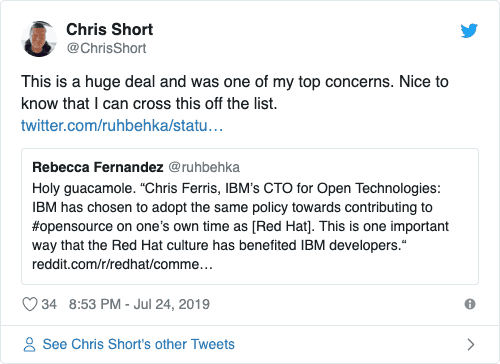
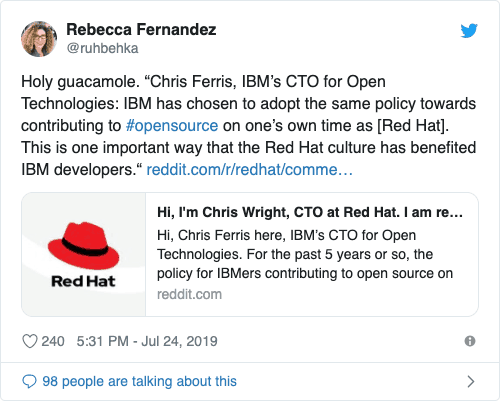
138 Rough Draft

diff --git a/content/post/138/index.md b/content/post/138/index.md
@@ -6,48 +6,104 @@ date = 2019-07-28T07:00:00Z
 description = ""
 draft = false
 slug = "138"
-tags = ["DevOps", "Kubernetes", "cloud", "open source", "GitHub", "cloud native", "weekly newsletter", "security", "DevOps news", "Kubernetes news"]
+tags = ["DevOps", "Kubernetes", "cloud", "open source", "GitHub", "cloud native", "weekly newsletter", "security", "DevOps news", "Kubernetes news", "JEDI"]
 title = "138"
 
 +++
 
-INTRO
+Let's talk about JEDI for a second. Not the lightsaber weilding kind, the US Department of Defense's [Joint Enterprise Defense Infrastructure (JEDI)](https://devopsish.com/tags/jedi/) kind. JEDI is a $10 billion, single-award, indefinite delivery, indefinite quantity contract for the largest Department in the US government's cloud business. The competition had been whittled down to AWS and Azure but, Oracle has been pitching a Larry Ellison sized fit over it. Actually, Oracle has protested JEDI's selection process almost since its inception. The process started in late 2017 and has been filled with all sorts of twists and turns.
+
+[Last week](https://devopsish.com/137), I shared a story with part of the headline stating, "Judge shoots down Oracle protest." Like any good government procurement process though, this is where the lawyers stepped back and the lobbyist stepped forward. I also linked to a story last week discussing the US President's concern over JEDI. The sitting US President absolutely hates Jeff Bezos, owner of the Washington Post and CEO of Amazon. AWS is the clear front runner as the #1 cloud provider *in the world*. The most popular cloud provider in the US by a long shot, [AWS GovCloud](https://aws.amazon.com/govcloud-us/) has been up and running since 2011. The US Intelligence Community uses [AWS Secret Region](https://aws.amazon.com/blogs/publicsector/announcing-the-new-aws-secret-region/) extensively.
+
+If you thought last week's warning shot was the end, you'd be wrong. [Senator Marco Rubio has sent letters to the President](https://www.fedscoop.com/jedi-letter-rubio-republicans/) urging further scrutinization of JEDI. What's interesting is that during his failed presidential run in 2016, [Senator Rubio took $4 million from Oracle co-founder Larry Ellison](https://www.usatoday.com/story/tech/2016/07/17/tech-turns-its-back-trump-except-few/86508920/). It's also worth noting that [Oracle's CEO was on Trump's Transition Team](https://fortune.com/2016/12/15/trump-oracle-safra-catz/). Make no mistake, Oracle is playing *really petty* politics here. I get it, Oracle's future depends a lot on this. If the US government continues its move to AWS, there's little hope Oracle's fledgling cloud business will gain much traction. Oracle seemingly can't compete on features and has decided to compete in other ways. [Amazon is rightfully getting their own lobbyists with Trump ties on board](https://www.geekwire.com/2019/amazon-hires-lobbyist-trump-ties-amid-contentious-pentagon-cloud-contest/). But, I fear it might be too little, too late. President Trump strikes me as someone who values personal connections far more than logic and reason.
+
+The [Joint Staff has already said, "Our warfighters need this capability now."](https://www.fedscoop.com/joint-chiefs-cio-jedi-delay-letter/) I agree with the Joint Staff here. Do you think China, Russia, or any US adversary for that matter, has this problem? Probably not. China is technologically and politically adept enough to have all this sorted out. Russia plays in a very different theater of operations than the US has traditionally. The elasticity and security capabilities of a fully integrated cloud might pay huge dividends against Russian tactics. But, delaying this acquisition from going forward has compounding negative effects as aging systems are yet again expected to survive somehow while the dithering in Washington drags on.
+
+If you are in the US (most of you are), do me a favor this week, please. Reach out to your [Representatives](https://www.house.gov/representatives) and [Senators](https://www.senate.gov/general/contact_information/senators_cfm.cfm). Tell them the politics over JEDI needs to stop and we need to give our servicemembers the tools they need to do their job right. Demand that the JEDI selection move forward with AWS and Azure as the final two bidders. Don't force the Department of Defense to use potentially inferior tooling. Who wants Oracle getting $10 billion more in US taxpayer money anyway?
 
 [**Get $100 to Demo Blue Matador The Alert Automation Service**](https://www.bluematador.com/demo-for-100-devopsish)  
 Blue Matador is alert automation for AWS and Kubernetes environments. Our proactive alerts take the time and toil out of monitoring. See production issues before anyone else. We're so confident you'll love it that we're offering $100 to demo it with our team. *SPONSORED*
 
+## DevOps'ish Last Week's Top Five
+
+1. [The cloud skills shortage and the unemployed army of the certified](https://itnext.io/the-cloud-skills-shortage-and-the-unemployed-army-of-the-certified-bd405784cef1)
+1. [Have you ever wondered what the hiring process was 20 years ago compared to today? Probably not, but I'll tell you anyway](https://www.reddit.com/r/cscareerquestions/comments/brjexy/have_you_ever_wondered_what_the_hiring_process/)
+1. [Kubernetes Deployments: The Ultimate Guide by Jérôme Petazzoni](https://semaphoreci.com/blog/kubernetes-deployment)
+1. [The Kubernetes Hierarchy of Needs](https://thenewstack.io/the-kubernetes-hierarchy-of-needs/)
+1. [6 Causes of Burnout, and How to Avoid Them](https://hbr.org/2019/07/6-causes-of-burnout-and-how-to-avoid-them)
+
+## People
+
 [**X-Team Is Hiring a Team of DevOps Engineers (Remote)**](https://x-team.com/remote-devops-engineer-jobs/?utm_source=devopsish&utm_medium=email-ad)  
 We are looking for passionate DevOps engineers to work with the world's leading brands, from anywhere. We love to work with Kubernetes, Docker, Serverless, and AWS tools. Travel the world while being part of the most energizing community of developers. [Join X-Team](https://x-team.com/remote-devops-engineer-jobs/?utm_source=devopsish&utm_medium=email-ad) *SPONSORED*
+
+[joshsimmons/inclusion-rider](https://github.com/joshsimmons/inclusion-rider) — An as-yet UNTESTED sample speaker's rider to share with event organizers.
+
+[9 people for sysadmins to follow on Twitter](https://opensource.com/article/19/7/twitter-sysadmins) — Follow these accounts to gain a wealth of knowledge about being a better sysadmin.
+
+[Russia's Secret Intelligence Agency Hacked: 'Largest Data Breach In Its History'](https://www.forbes.com/sites/zakdoffman/2019/07/20/russian-intelligence-has-been-hacked-with-social-media-and-tor-projects-exposed/#e8c8c06b1150) — *Gets popcorn*
+
+[Marcus Hutchins, malware researcher and ‘WannaCry hero,' sentenced to supervised release](https://techcrunch.com/2019/07/26/marcus-hutchins-sentenced-kronos/) — Time served, supervised release, and Marcus will likely never be able to re-enter the US. But, look what Judge J. P. Stadtmueller said, "It's going to take the people like [Hutchins] with your skills to come up with solutions because that's the only way we're going to eliminate this entire subject of the woefully inadequate security protocols." The judge is right.
 
 [**The Business Value of Developer Relations**](https://www.persea-consulting.com/book?utm_source=devopsish&utm_medium=newsletter&utm_campaign=138)  
 Discover the true value of Developer Relations as you learn to build and maintain positive relationships with your developer community. Use the principles laid out in this book to walk through your company goals and discover how you can formulate a plan tailored to your specific needs. *SPONSORED*
 
-## DevOps'ish Last Week's Top Five
-
-1. 
-1. 
-1. 
-1. 
-1. 
-
-## People
-
-PEOPLE
-
-[DevOps'ish Telegram](https://t.me/devopsish) — Join the 300+ DevOps, Kubernetes, SRE, and other technology professionals discussing real-world problems, breaking technology events and outages, and the occasional Spotify playlist.
-
 ## Process
 
-PROCESS
+[Will complexity kill Kubernetes?](https://www.infoworld.com/article/3409980/will-complexity-kill-kubernetes.html) — Short answer: Complexity kills everything so, yes. However, the author disagrees (for good reason), "Probably not. While Hadoop got more complicated with age, Kubernetes keeps getting easier. While Kubernetes will likely never be 'easy,' per se, its complexity differs from that of Hadoop in critical ways, paving the way for Kubernetes to remain an industry standard for years to come." I don't think Hadoop is a good analog to Kubernetes (let's face it, no one wants Kubernetes to become OpenStack). But, it does speak to a community that try's to grease the skids in versus raising the bar higher and higher.
+
+[Other people's messes by Jessica Kerr](https://blog.jessitron.com/2019/07/21/other-peoples-messes/) — Like a lot of things in life, When it comes to code, context matters. It's a lot less messy when you understand the why behind it.
+
+[IBM-Red Hat: Should developers worry we're headed back to the 1990s?](https://venturebeat.com/2019/07/20/ibm-red-hat-should-developers-worry-were-headed-back-to-the-1990s/) — "A dated playbook of boxing in and trying to control developers through a Big Blue (and now Red) stack could ultimately harm IBM's chances of achieving cloud relevancy." Huh. I thought the heading back to the 90s bit was the AWS, GCP, Azure, and Oracles of the world (vendor lock-in). I guess with Red Hat being a part of IBM now this was bound to happen. But, the author believes that IBM is now going to start shoving Red Hat products down peoples' throats. I guess if IBM didn't already have product in a space maybe? But, it's not like IBM didn't have anything to sell until a few weeks ago. When something is new and shiny, it's going to be at top of people's minds. Once news of the deal settles and the sales training is into sustainment, I hope folks start to forget Red Hat is a part of IBM. That'd be great.
+
+[Decoupling database migrations from server startup: why and how](https://pythonspeed.com/articles/schema-migrations-server-startup/) — Your code and database schemas shouldn't have to march in lock step with their releases. Thinking of the database as another codebase (the schema certainly is) has been something I've been trying to get through to folks for a long time on.
+
+[How a Production Outage Was Caused Using Kubernetes Pod Priorities](https://grafana.com/blog/2019/07/24/how-a-production-outage-was-caused-using-kubernetes-pod-priorities/) — Resource limits are EVERYTHING. If you don't use them, WHY!?!
+
+[6 Tech Giants Located in Detroit](https://blog.repurpose.co/6-tech-giants-located-in-detroit) — Don't sleep on Detroit, y'all. When I'm doing non-work speaking, I put [pictures from Detroit](https://devopsish.com/138/awesome-detroit.jpg) in the beginning of talks. I want to show people it's not what they hear and see in the news. Detroit is an amazing city!
 
 ## Tools
 
-TOOLS
+[The RedMonk Programming Language Rankings: June 2019](https://redmonk.com/sogrady/2019/07/18/language-rankings-6-19/) — JavaScript came in at #1 (duh). Java, Python, and PHP rounded out the Top 4. CSS is #7 🤢. TypeScript moved up two spots to #10. Go slid to number 16 while Perl showed up at number 18. "Go's lack of versatility – perceived or otherwise – has limited its upside."
+
+[Kubernetes and Containers Best Practices - Health Probes](https://www.magalix.com/blog/kubernetes-and-containers-best-practices-health-probes) — Use Kubernetes `readinessProbe` and the `livenessProbe` as part of high-observability principle.
+
+[Istio the Easy Way (Again!)](https://medium.com/solo-io/istio-the-easy-way-again-b0504347b7ce) — Managing service meshes is starting to get easier.
+
+[xkcd: Spreadsheets](https://xkcd.com/2180/) — It's funny because it's true.
+
+[Understanding Docker container escapes](https://blog.trailofbits.com/2019/07/19/understanding-docker-container-escapes/) — "The `--privileged` flag introduces significant security concerns, and the exploit relies on launching a docker container with it enabled. When using this flag, containers have full access to all devices and lack restrictions from seccomp, AppArmor, and Linux capabilities."
+
+[Apologies for try-ing](https://medium.com/@rocketlaunchr.cloud/apologies-for-try-ing-6cb093455ce8) — Oh Go... There never seems to be any shortage of dramatics in the Go community. "Once the `try` proposal was rejected, the `must` proposal (which can exist independently) unfortunately got prematurely rejected as cannon fodder."
+
+[Intel Prepares To Graft Google's Bfloat16 Onto Processors](https://www.nextplatform.com/2019/07/15/intel-prepares-to-graft-googles-bfloat16-onto-processors/) — "Essentially, they were able to get the benefit of the 16-bit throughput for free, the slight caveat being that some of the work, like the fused-multiply add (FMA), needs an FP32 accumulator. But, according to Dubey, depending on how much you're able to keep the computations in the bfloat16 realm, you should be able to improve training speed by at least 1.7x.  Which is a big deal when training a model takes days or even weeks."
+
+[Get started with Kubernetes (using Python)](https://kubernetes.io/blog/2019/07/23/get-started-with-kubernetes-using-python/) — A walkthrough of taking some Python code, containerizing it, and deploying it to a Kubernetes cluster.
+
+[Remote SSH access with Visual Studio Code](https://code.visualstudio.com/blogs/2019/07/25/remote-ssh)
+
+[Retrotechtacular: The Floppy Disk Orphaned By Linux](https://hackaday.com/2019/07/26/retrotechtacular-the-floppy-disk-orphaned-by-linux/) — A complaint about this came up a few weeks ago in the [DevOps'ish Telegram group](https://t.me/devopsish). Folks are having issues with Packer as a result. I remember using a virtual floppy from something semi-regularly when I was at Hosted Solutions four years ago. Are you using a floppy disk or drive for anything still?
+
+[Underscoring the "private" in private key](https://koen.io/2019/07/26/underscoring-the-private-in-private-key/) — The private key should be KEPT PRIVATE. It's not to hand out, ever (with very, very few exceptions).
+
+[jbeda/kinecraft](https://github.com/jbeda/kinecraft) — Start to a Minecraft k8s operator by Joe Beda
+
+[eko/monday](https://github.com/eko/monday) — A dev tool for microservice developers to run local applications and/or forward others from/to Kubernetes SSH or TCP
+
+[envoyproxy/envoy-wasm](https://github.com/envoyproxy/envoy-wasm) — Playground for Envoy WASM filter
+
+[herbrandson/k8dash](https://github.com/herbrandson/k8dash) — Simple Kubernetes realtime dashboard and management
+
+[tumblr/docker-registry-pruner](https://github.com/tumblr/docker-registry-pruner) — Tool to apply retention logic to docker images in a Docker Registry
+
+[geerlingguy/docker-ubi8-ansible](https://github.com/geerlingguy/docker-ubi8-ansible) — UBI 8 Docker container for Ansible playbook and role testing.
+
+[Goodbye Docker: Purging is Such Sweet Sorrow](https://zwischenzugs.com/2019/07/27/goodbye-docker-purging-is-such-sweet-sorrow/) — I still need Docker on my Mac from time to time and it irritates me to no end.
 
 ## DevOps'ish Tweet of the Week
 
-[![DevOps'ish Tweet of the Week][tweet]](https://twitter.com/ChrisShort/status/1154193024907448321)
+[![DevOps'ish Tweet of the Week][tweet]](https://twitter.com/ruhbehka/status/1154142091620102150)
 
 [tweet]: 138-tweet-of-the-week.png
 
-{{< sponsor-blurb >}}
+Notes from this week's issue can be found on [GitHub](https://github.com/chris-short/devopsish.com/blob/master/content/post/138/notes.md)

diff --git a/content/post/138/notes.md b/content/post/138/notes.md
@@ -1,0 +1,50 @@
+[Want to hire the best programmers? Offer growth. - Triplebyte Blog](https://triplebyte.com/blog/want-hire-best-programmers-offer-growth)
+
+[Mozilla debuts implementation of WebThings Gateway open source router firmware | VentureBeat](https://venturebeat.com/2019/07/25/mozilla-debuts-webthings-gateway-open-source-router-firmware-for-turris-omnia/)
+
+[When a rewrite isn't: rebuilding Slack on the desktop](https://slack.engineering/rebuilding-slack-on-the-desktop-308d6fe94ae4?gi=769a7e74fa2f)
+
+[History and effective use of Vim](https://begriffs.com/posts/2019-07-19-history-use-vim.html)
+
+[To Rook, or not to Rook, that's Kubernetes - Flant - Medium](https://medium.com/flant-com/to-rook-in-kubernetes-df13465ff553)
+
+[He Built A $1 Billion Business Where All 700 Employees Work Remotely](https://www.forbes.com/sites/alejandrocremades/2019/07/21/he-built-a-1-billion-business-where-all-700-employees-work-remotely/#36513b7e2aa9)
+
+[Call for Fedora Women's Day 2019 proposals – Fedora Community Blog](https://communityblog.fedoraproject.org/call-for-fedora-womens-day-2019-proposals/)
+
+[3 types of metric dashboards for DevOps teams | Opensource.com](https://opensource.com/article/19/7/dashboards-devops-teams)
+
+[Ford Writes Down $181 Million in Software Company Stock Value Following Class Action Lawsuits [Corrected]](https://jalopnik.com/ford-writes-off-entire-181-million-investment-in-softw-1836694162)
+
+[Thoughts on Restructuring the Ansible Project](https://www.ansible.com/blog/thoughts-on-restructuring-the-ansible-project)
+
+[curl goez parallel | daniel.haxx.se](https://daniel.haxx.se/blog/2019/07/22/curl-goez-parallel/)
+
+[openshift/ocs-operator: Operator for RHOCS](https://github.com/openshift/ocs-operator)
+
+[xkcd: NWS Warnings](https://xkcd.com/2179/)
+
+[Knative's first year: Where it's at and what's next in serverless](https://www.redhat.com/en/blog/knatives-first-year-where-its-and-whats-next-serverless)
+
+[How to Build an Enterprise Kubernetes Strategy | Linux Journal](https://www.linuxjournal.com/content/how-build-enterprise-kubernetes-strategy)
+
+[3 Reasons Why You Should Work Directly in the Cloud](https://www.welcometothejungle.co/fr/articles/reasons-work-cloud)
+
+[Kubernetes Operators with Ansible Deep Dive: Part 1](https://www.ansible.com/blog/kubernetes-operators-ansible-deep-dive-part-1)
+
+[How to transition into a career as a DevOps engineer | Opensource.com](https://opensource.com/article/19/7/how-transition-career-devops-engineer)
+
+[Ignite - container workload in real virtual machines](https://felixwiedmann.de/ignite/)
+
+[Announcing Yaegi - containous](https://blog.containo.us/announcing-yaegi-263a1e2d070a?gi=9507b95be2c3)
+
+[Fedora CoreOS - Getting Started :: Fedora Docs Site](https://docs.fedoraproject.org/en-US/fedora-coreos/getting-started/)
+
+[FairwindsOps/polaris: Validation of best practices in your Kubernetes clusters](https://github.com/FairwindsOps/polaris)
+
+[estafette/estafette-gke-preemptible-killer: Kubernetes controller that ensures deletion of preemptible nodes in a GKE cluster is spread out to avoid the risk of all getting deleted at the same time after 24 hours](https://github.com/estafette/estafette-gke-preemptible-killer)
+
+[Amazon hires lobbyist with Trump ties amid contentious Pentagon cloud contest – GeekWire](https://www.geekwire.com/2019/amazon-hires-lobbyist-trump-ties-amid-contentious-pentagon-cloud-contest/)
+
+
+[Facebook Knows More About You Than the CIA | WIRED](https://www.wired.com/story/facebook-knows-more-about-you-than-cia/)
